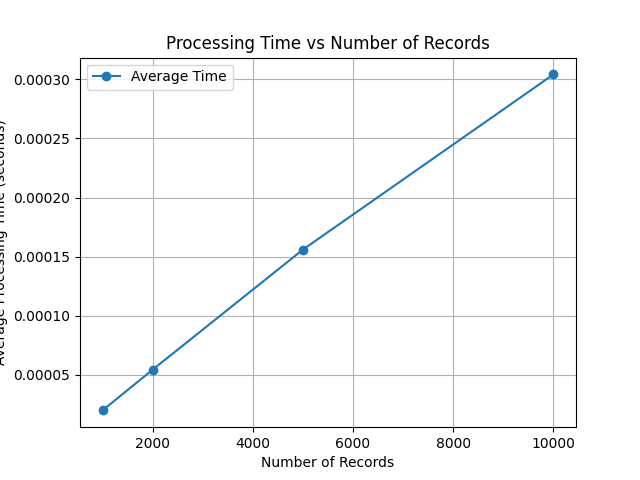
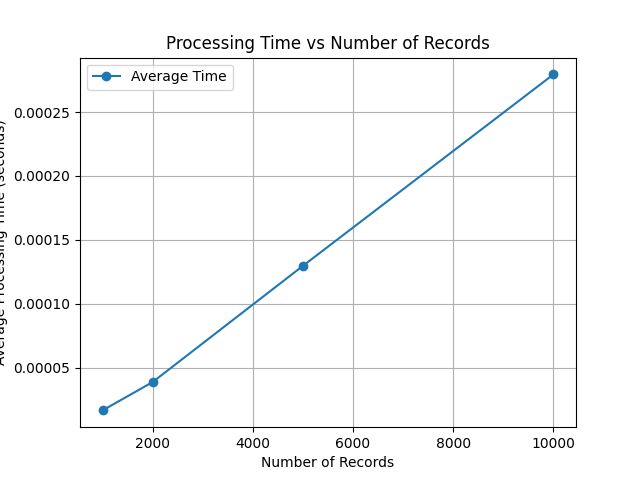
3.2 changes

diff --git a/ex3.2.py b/ex3.2.py
@@ -18,8 +18,8 @@ def process_large_file():
 
     for size in record_sizes:
         subset_data = data[:size]
-        total_time = timeit.timeit(lambda: modify_size(subset_data), number=10)
-        average_time = total_time / 10
+        total_time = timeit.timeit(lambda: modify_size(subset_data), number=100)
+        average_time = total_time / 100
         average_times.append(average_time)
         print(f'Average time for {size} records: {average_time:.6f} seconds')
 
